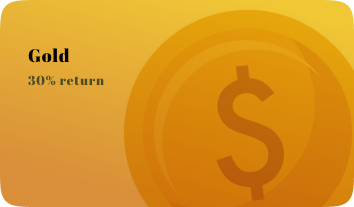
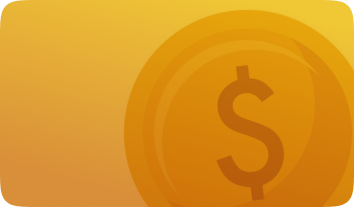
gitlab push

Changed region(s): [[0.0621, 0.3478, 0.3107, 0.4348], [0.0621, 0.2319, 0.2175, 0.3188]]

diff --git a/src/screens/Assets.js b/src/screens/Assets.js
@@ -62,7 +62,7 @@ const AssetsScreen = ({ navigation }) => {
               <Text style={styles.headerTitle}>Test</Text>
             </View>
             <TouchableHighlight style={{ flex: 1 }}>
-              <Image
+              <ImageBackground
                 style={styles.close}
                 source={require("../../assets/assets/close.png")}
                 resizeMode="contain"
@@ -72,7 +72,14 @@ const AssetsScreen = ({ navigation }) => {
           </View>
           <View style={styles.headerContent}>
             <Text style={styles.titleContent}>Your total asset portofolio</Text>
-            <Text style={styles.valueContent}>N203,935</Text>
+            <View style={{ flexDirection: "row", alignItems: "center" }}>
+              <Text style={styles.valueContent}>N203,935</Text>
+              <Image
+                source={require("../../assets/assets/vote.png")}
+                style={styles.vote}
+              />
+              <Text style={styles.valuePercent}>+2%</Text>
+            </View>
           </View>
           <View style={styles.currentPlans}>
             <Text style={styles.titlePlans}>Current Plans</Text>
@@ -80,7 +87,10 @@ const AssetsScreen = ({ navigation }) => {
               <ImageBackground
                 source={require("../../assets/assets/gold.png")}
                 style={styles.imagePlans}
-              ></ImageBackground>
+              >
+                <Text style={styles.imagePlansTitle}>Gold</Text>
+                <Text style={styles.imagePlansSubTitle}>30% return</Text>
+              </ImageBackground>
             </TouchableOpacity>
             <Text style={styles.allPlans}>See all plans →</Text>
           </View>
@@ -89,7 +99,6 @@ const AssetsScreen = ({ navigation }) => {
             <FlatList
               data={DATA}
               renderItem={({ item }) => {
-                console.log(item);
                 return (
                   <View>
                     <Text style={styles.historyItemTitle}>{item.title}</Text>
@@ -157,6 +166,17 @@ const styles = StyleSheet.create({
     fontFamily: "SF-Pro-Display-Medium",
     fontweight: "600",
   },
+  vote: {
+    position: "relative",
+    zIndex: 1,
+    width: 16,
+    height: 16,
+    marginLeft: 40,
+  },
+  valuePercent: {
+    fontSize: 11,
+    color: "#00B907",
+  },
   currentPlans: {
     marginTop: 13,
     marginBottom: 30,
@@ -169,9 +189,16 @@ const styles = StyleSheet.create({
     fontFamily: "SF-Pro-Display-Medium",
   },
   imagePlans: {
-    height: 184,
-    maxWidth: "100%",
-    marginBottom: 25,
+    borderRadius: 20,
+    paddingBottom: 90,
+    marginBottom: 10,
+    paddingTop: 43,
+    paddingRight: 28,
+    paddingLeft: 28,
+  },
+  imagePlansTitle: {
+    fontSize: 18,
+    lineHeight: 24,
   },
   allPlans: {
     letterSpacing: "0.8px",

diff --git a/src/screens/Homepage.js b/src/screens/Homepage.js
@@ -76,10 +76,7 @@ export const HomePage = ({ navigation }) => {
         <View style={styles.homepage}>
           <View style={styles.container}>
             <View style={styles.headerContainer}>
-              <TouchableHighlight
-                onPress={() => console.log("e")}
-                underlayColor="transparent"
-              >
+              <TouchableHighlight underlayColor="transparent">
                 <Image
                   style={styles.hamburger}
                   source={require("../../assets/homepage/menu.png")}

diff --git a/src/navigator/AppNavigator.js b/src/navigator/AppNavigator.js
@@ -49,7 +49,7 @@ const MainStackNavigator = () => {
             headerTitle: getHeaderTitle(route),
           })}
         /> */}
-        <Stack.Screen name="Sign Up" component={Assets} />
+        <Stack.Screen name="Sign Up" component={Profile} />
         <Stack.Screen name="Create Account" component={CreateAccount} />
         <Stack.Screen name="Home Page" component={HomePage} />
       </Stack.Navigator>
